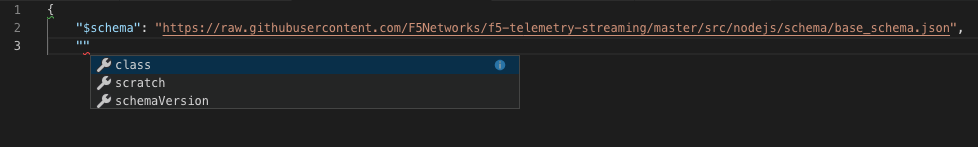
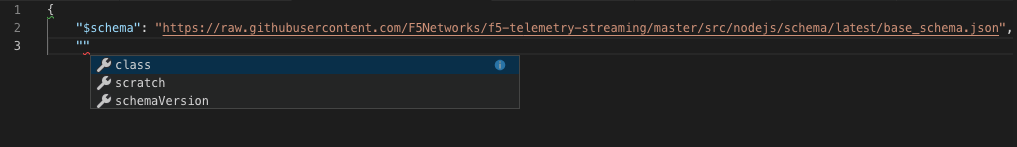
updated validation images, updated rev history

diff --git a/docs/validate.rst b/docs/validate.rst
@@ -12,16 +12,29 @@ To validate a declaration
 Use the following procedure to validate a declaration.
 
 1.  Download and install |vsc|.
-2.  Open Visual Studio Code, and use **File > New File** start a new JSON file. In our example, we name our file **myDeclaration.json**.  You must save the file in order for Visual Studio Code to recognize it as a JSON file.
-3.  At the top of your schema file, copy and paste the following lines:
+2.  Go to the |schema| directory of the AS3 repo on GitHub.
+
+    - Click either **latest** or the specific AS3 version you are using.
+    - Click the **as3-schema.json** file (both files in each directory are the same), and then click the **Raw** tab.
+    - Copy the URL of the raw schema file.
+
+3. Open Visual Studio Code, and use **File > New File** start a new JSON file. In our example, we name our file **myDeclaration.json**.  You must save the file in order for Visual Studio Code to recognize it as a JSON file.
+4. At the top of your schema file, type the following code:
     
-    .. code-block:: json
+   .. code-block:: json
 
         {
-            "$schema": "https://raw.githubusercontent.com/F5Networks/f5-telemetry-streaming/master/src/nodejs/schema/base_schema.json",
-        
+            "$schema": "",
 
-4. Begin to type your declaration (if validating an existing declaration, see step 5)
+5. Paste the GitHub raw URL you copied (if you downloaded the schema file, use the path to the file on your device) between the quotes.  When you are finished with this step, your code should look like the following (you may have a different directory than **latest**):    
+
+   .. code-block:: json
+
+        {
+            "$schema": "https://raw.githubusercontent.com/F5Networks/f5-appsvcs-extension/master/schema/latest/as3-schema.json",
+
+
+6. Begin to type your declaration (if validating an existing declaration, see step 7)
 
    - As you begin to type the :ref:`properties of your declaration<composing>`, the validation process suggests valid options.
 
@@ -42,7 +55,7 @@ Use the following procedure to validate a declaration.
    .. image:: /images/validate-2a.png
 
 
-5. You can also validate an existing declaration by pasting only the **$schema** line between the opening bracket of the file and the first property of the declaration. 
+7. You can also validate an existing declaration by pasting only the **$schema** line between the opening bracket of the file and the first property of the declaration. 
 
    - In this example, the validator discovers a typo of the word *Tenant*.
 
@@ -66,3 +79,11 @@ Use the following procedure to validate a declaration.
 .. |json| raw:: html
 
    <a href="https://code.visualstudio.com/docs/languages/json" target="_blank">Microsoft documentation</a>
+
+.. |schema| raw:: html
+
+   <a href="https://github.com/F5Networks/f5-telemetry-streaming/tree/master/src/nodejs/schema" target="_blank">schema</a>
+
+.. |br| raw:: html
+   
+   <br />

diff --git a/docs/revision-history.rst b/docs/revision-history.rst
@@ -24,12 +24,12 @@ Document Revision History
         - 03-05-19  
       
       * - 1.0.0
-        - Initial release of AS3 documentation.
+        - Initial release of Telemetry Streaming documentation.
         - 02-05-19
 
 
       * - 0.9.0
-        - Initial internal release of AS3 documentation.
+        - Initial internal release of Telemetry Streaming documentation.
         - 12-27-18
 
     
